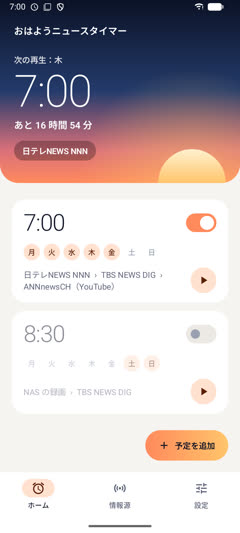
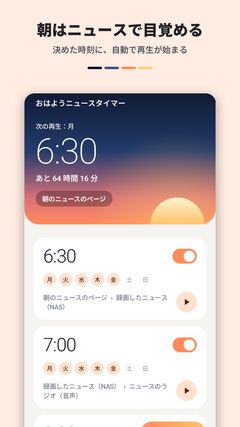
おはようニュースタイマー：ストアと同じアイコン・画像にする
- アイコンとフィーチャー グラフィック（日本語・英語）を置き、apps.js の icon を true にする
- 画面の画像を、ストアのスクリーンショット（日英 各 4 枚）に替える。放送局の名前が写る前の画像は消す
- トップページの札の画像（thumbs）を日英で作り直し、enShots を true にする
- 紹介ページの英語の欄にも画像を並べる
- 使い方のページの合わせたバージョンを 1.0.0 にする（画面は 0.1.0 から変わっていない）

diff --git a/morning-news/index.html b/morning-news/index.html
@@ -4,20 +4,22 @@
 <meta charset="utf-8">
 <meta name="viewport" content="width=device-width,initial-scale=1">
 <title>おはようニュースタイマー</title>
+<link rel="icon" href="images/icon.png">
 <meta name="description" content="決めた時刻に、ニュースの再生を自動で始める Android アプリ。URL の追加や NAS・DLNA の動画にも対応。">
-<style>body{font-family:sans-serif;max-width:720px;margin:24px auto;padding:0 16px;line-height:1.7;color:#222}h1{font-size:1.4em}h2{font-size:1.1em;margin-top:2em}img{max-width:100%;height:auto}.shots{display:grid;grid-template-columns:repeat(auto-fill,minmax(150px,1fr));gap:12px;margin:1em 0}.shots img{display:block;border-radius:8px}.note{font-size:.9em;color:#555}</style>
+<style>body{font-family:sans-serif;max-width:720px;margin:24px auto;padding:0 16px;line-height:1.7;color:#222}h1{font-size:1.4em}h2{font-size:1.1em;margin-top:2em}img{max-width:100%;height:auto}.shots{display:grid;grid-template-columns:repeat(auto-fill,minmax(150px,1fr));gap:12px;margin:1em 0}.shots img{display:block;border-radius:8px}.note{font-size:.9em;color:#555}.feature{display:block;width:100%;border-radius:8px;margin:1em 0}</style>
 </head>
 <body>
 <p><a href="../">DNGG-studio のアプリ一覧</a></p>
 <h1>おはようニュースタイマー</h1>
+<img class="feature" src="images/featureGraphic.png" width="1024" height="500" alt="おはようニュースタイマー">
 <p>決めた時刻になると、画面を点けてニュースの再生を自動で始めるアプリです。</p>
 <p>Google Play で配信準備中です。</p>
 
 <div class="shots">
-<img src="images/ja/1.jpg" width="540" height="1200" loading="lazy" alt="予定の一覧">
-<img src="images/ja/2.jpg" width="540" height="1200" loading="lazy" alt="予定の編集">
-<img src="images/ja/3.jpg" width="540" height="1200" loading="lazy" alt="情報源の一覧">
-<img src="images/ja/4.jpg" width="540" height="1200" loading="lazy" alt="NAS の設定">
+<img src="images/ja/1.png" width="1080" height="1920" loading="lazy" alt="次の再生と予定の一覧">
+<img src="images/ja/2.png" width="1080" height="1920" loading="lazy" alt="再生の画面に重ねる時計と天気">
+<img src="images/ja/3.png" width="1080" height="1920" loading="lazy" alt="NAS のフォルダの情報源">
+<img src="images/ja/4.png" width="1080" height="1920" loading="lazy" alt="時計と天気の設定">
 </div>
 
 <h2>できること</h2>
@@ -49,8 +51,16 @@
 <hr>
 <div lang="en">
 <h1>Good Morning News Timer</h1>
+<img class="feature" src="images/en/featureGraphic.png" width="1024" height="500" loading="lazy" alt="Good Morning News Timer">
 <p>Turns on the screen and starts playing the news at the time you set.</p>
 <p>Coming soon to Google Play.</p>
+
+<div class="shots">
+<img src="images/en/1.png" width="1080" height="1920" loading="lazy" alt="Next playback and schedules">
+<img src="images/en/2.png" width="1080" height="1920" loading="lazy" alt="Clock and weather over the player">
+<img src="images/en/3.png" width="1080" height="1920" loading="lazy" alt="A NAS folder as a source">
+<img src="images/en/4.png" width="1080" height="1920" loading="lazy" alt="Clock and weather settings">
+</div>
 
 <h2>Features</h2>
 <ul>

diff --git a/morning-news/manual.html b/morning-news/manual.html
@@ -11,7 +11,7 @@
 <p><a href="./">おはようニュースタイマー の紹介ページへ戻る</a></p>
 <h1>おはようニュースタイマー の使い方</h1>
 <p>おはようニュースタイマー（Good Morning News Timer）は、決めた時刻にニュースの再生を自動で始めるアプリです。</p>
-<p class="note">この説明は バージョン 0.1.0 の画面に合わせています（2026年11月26日、DLNA と、時計・天気の表示に対応しました）。画面はこれから変わることがあります。画像の赤い枠と番号は、説明の番号と同じところです。</p>
+<p class="note">この説明は バージョン 1.0.0 の画面に合わせています（2026年11月27日。0.1.0 から画面は変わっていません）。画面はこれから変わることがあります。画像の赤い枠と番号は、説明の番号と同じところです。</p>
 
 <ol class="toc">
 <li><a href="#start">はじめに（許可）</a></li>

diff --git a/apps.js b/apps.js
@@ -34,8 +34,8 @@
       }
     },
     {
-      id: 'morning-news', category: 'tool', icon: false, manual: true,
-      shots: [['1', '予定の一覧', 'Schedules'], ['2', '予定の編集', 'Edit a schedule'], ['3', '情報源の一覧', 'Sources'], ['4', 'NAS の設定', 'NAS settings']], enShots: false,
+      id: 'morning-news', category: 'tool', icon: true, manual: true,
+      shots: [['1', '次の再生と予定の一覧', 'Next playback and schedules'], ['2', '再生の画面に重ねる時計と天気', 'Clock and weather over the player'], ['3', 'NAS のフォルダの情報源', 'A NAS folder as a source'], ['4', '時計と天気の設定', 'Clock and weather settings']], enShots: true,
       name: { ja: 'おはようニュースタイマー', en: 'Good Morning News Timer' },
       desc: {
         ja: '決めた時刻に、ニュースの再生を自動で開始。URL の追加や NAS の動画にも対応。',
